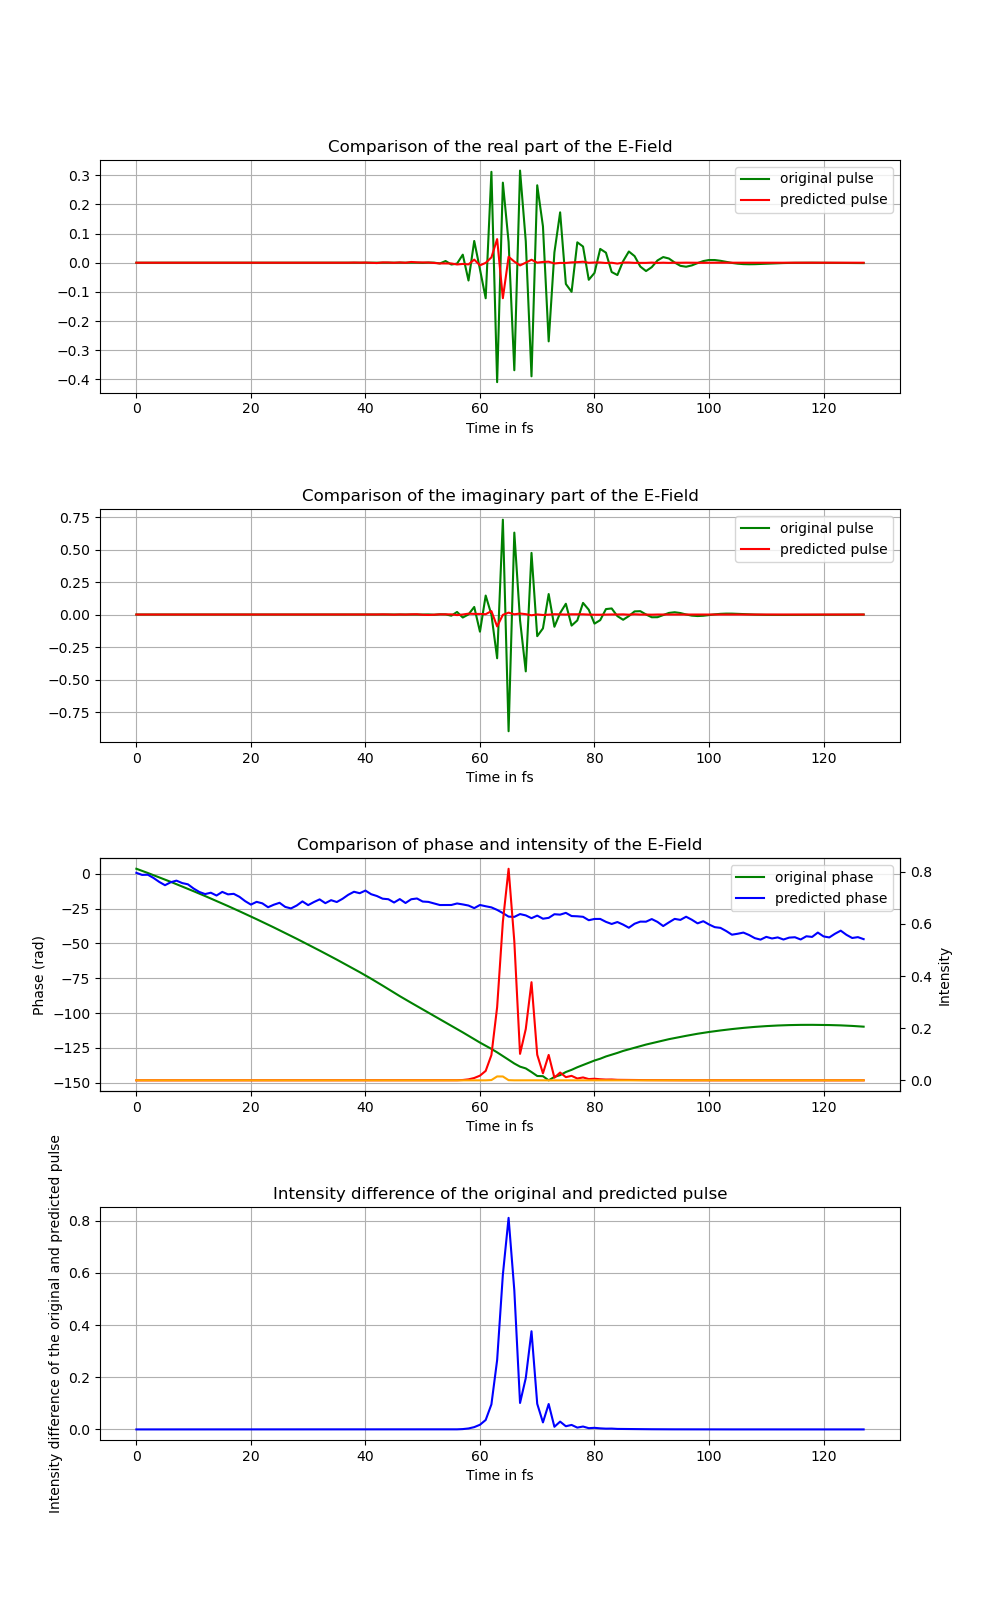
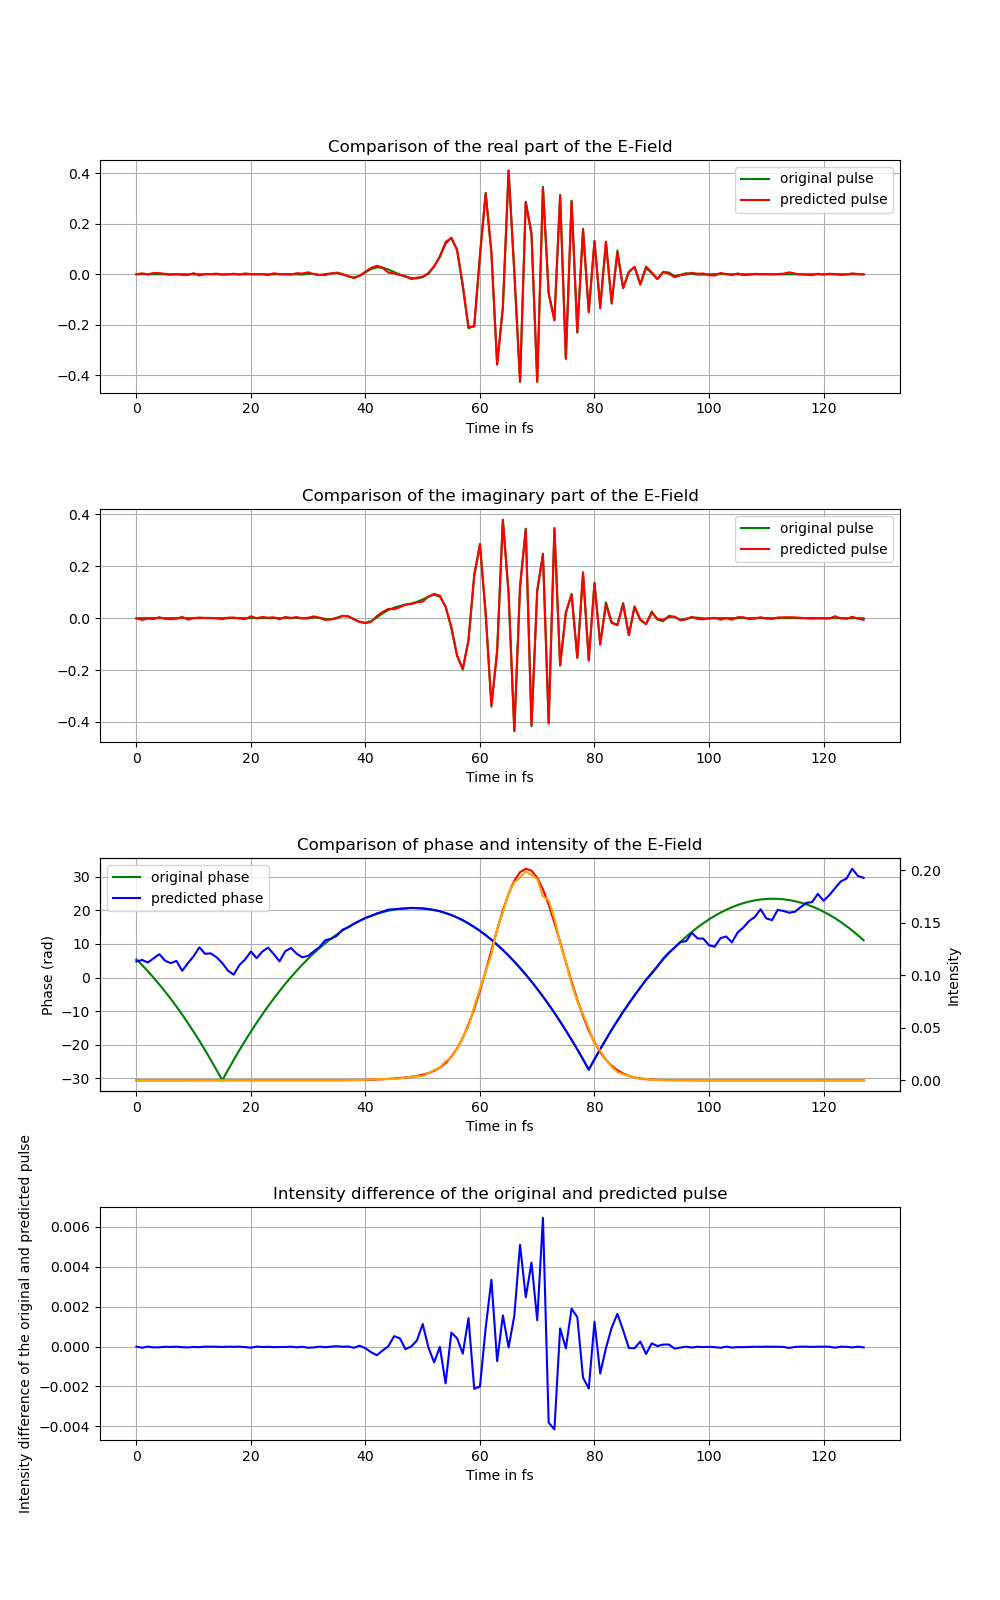
added plots, models and logs

diff --git a/config.py b/config.py
@@ -6,7 +6,7 @@ OUTPUT_SIZE = 128
 BATCH_SIZE = 10
 NUM_EPOCHS = 10
 UNFREEZE_EPOCH = 8
-LEARNING_RATE = 0.01
+LEARNING_RATE = 0.001
 TRAINING_LOG_STEP_SIZE = BATCH_SIZE
 # NUMBER_FOLDS = 5
 # NUMBER_FOLDS = 2
